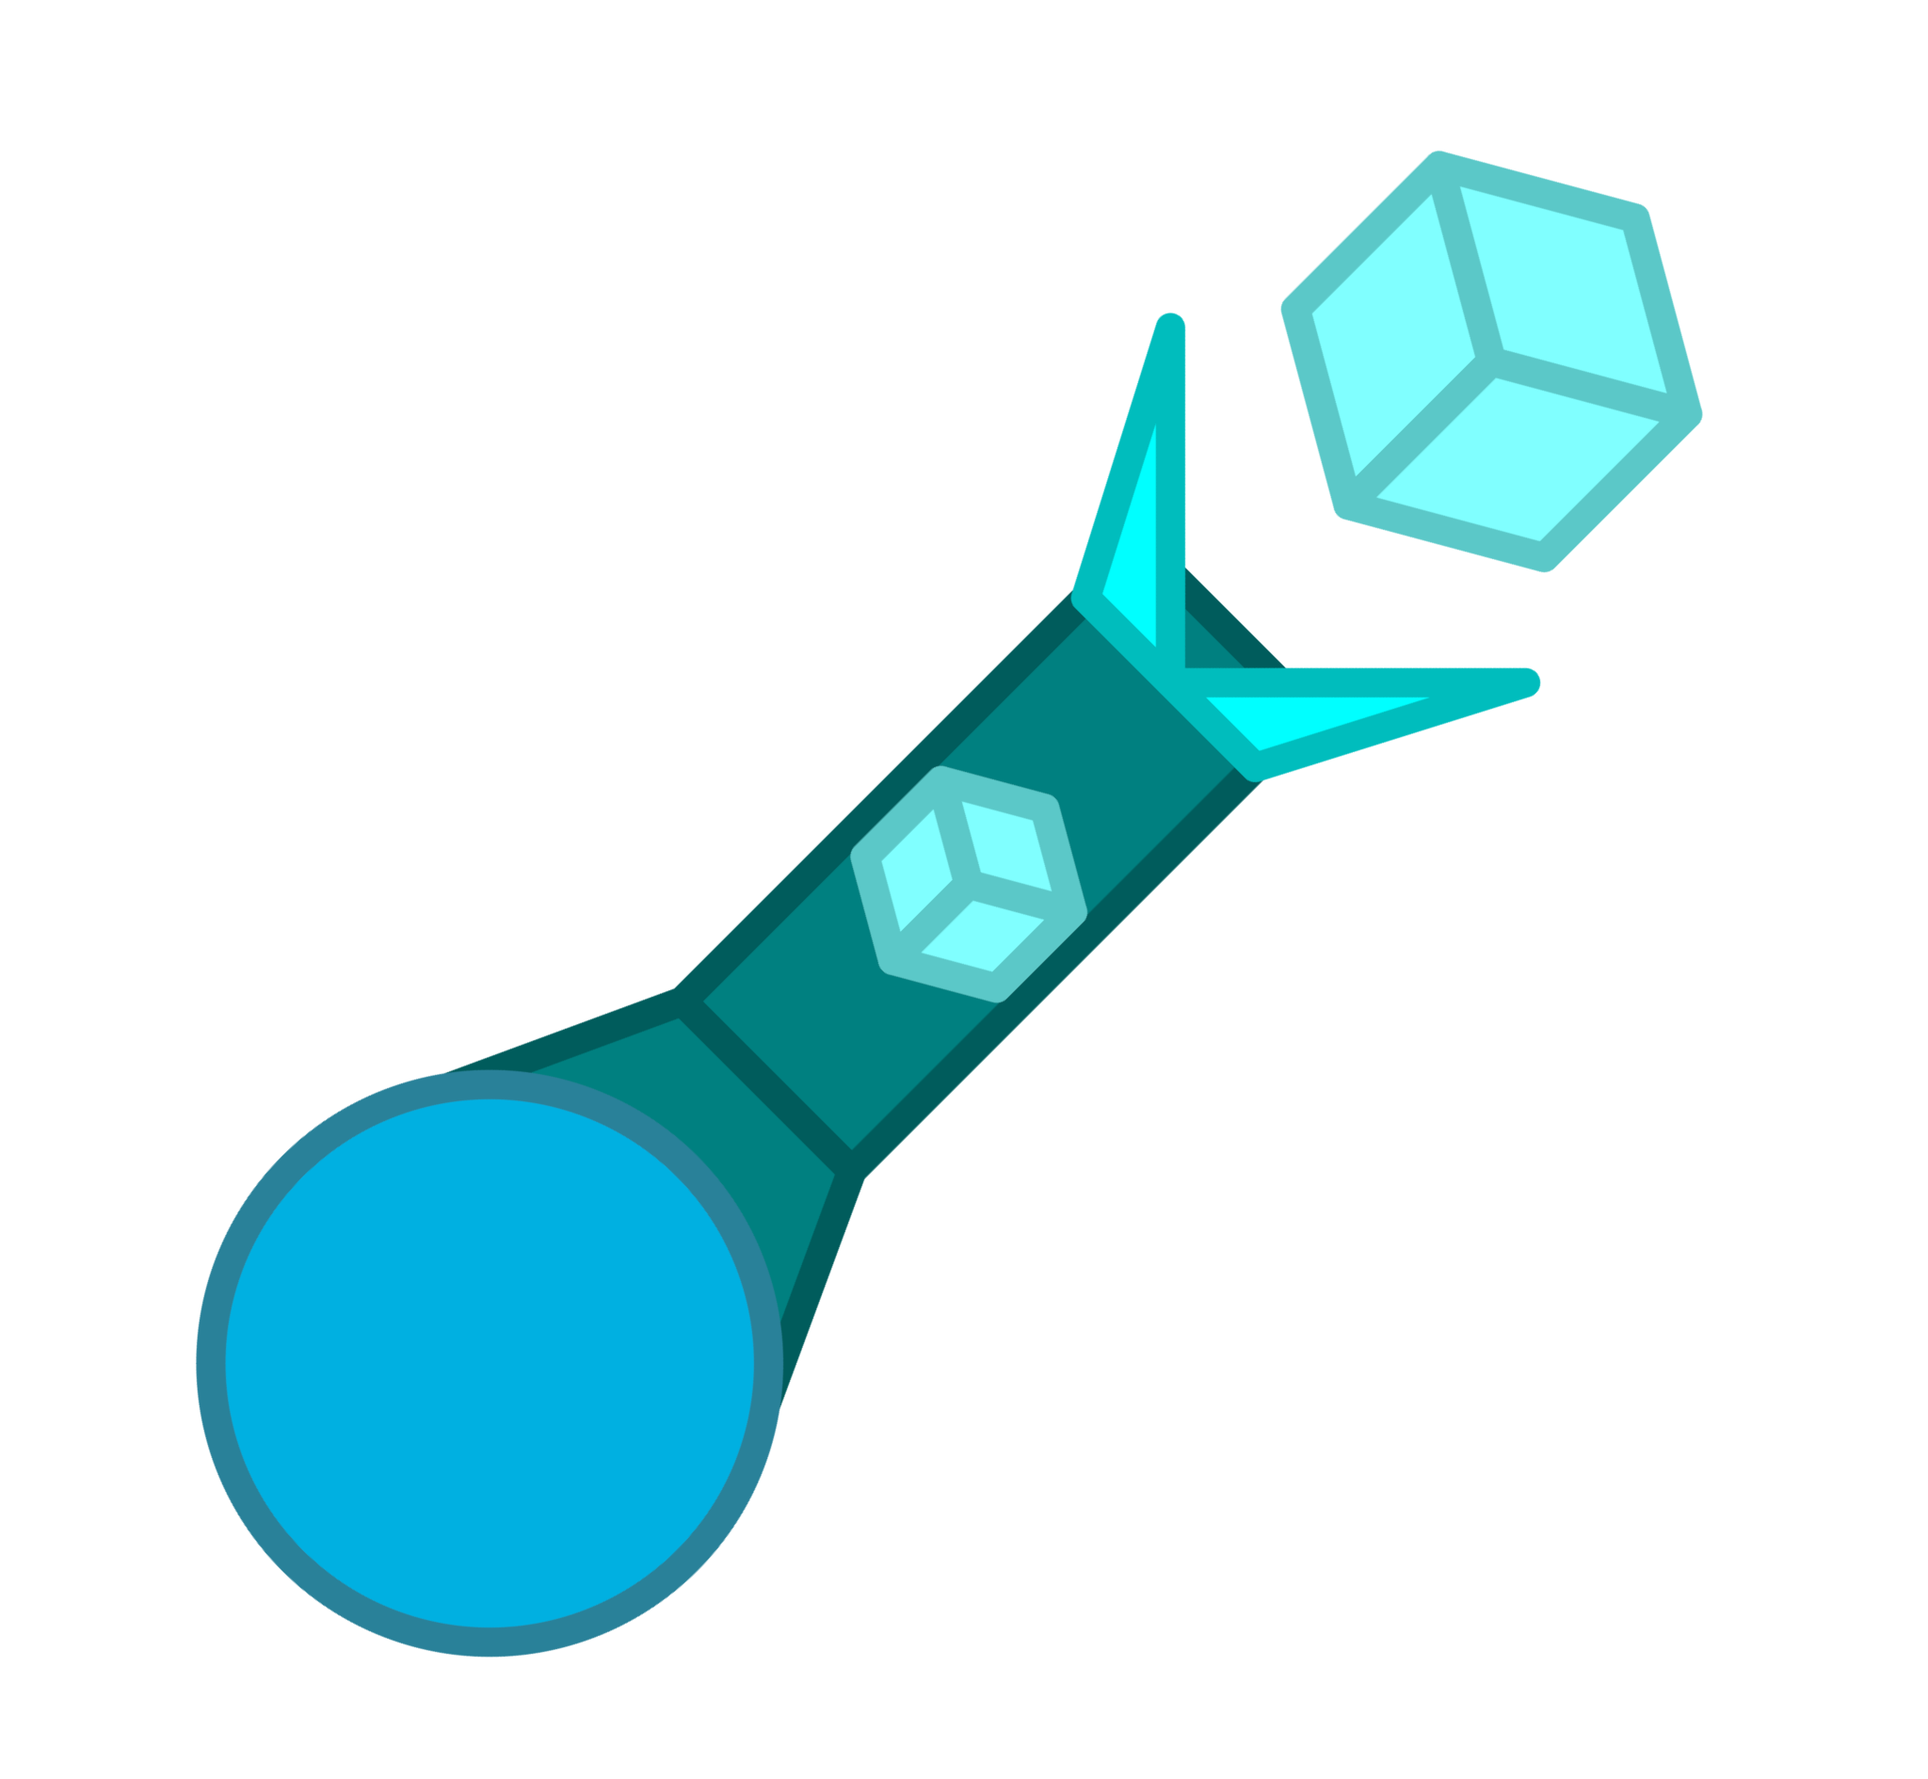
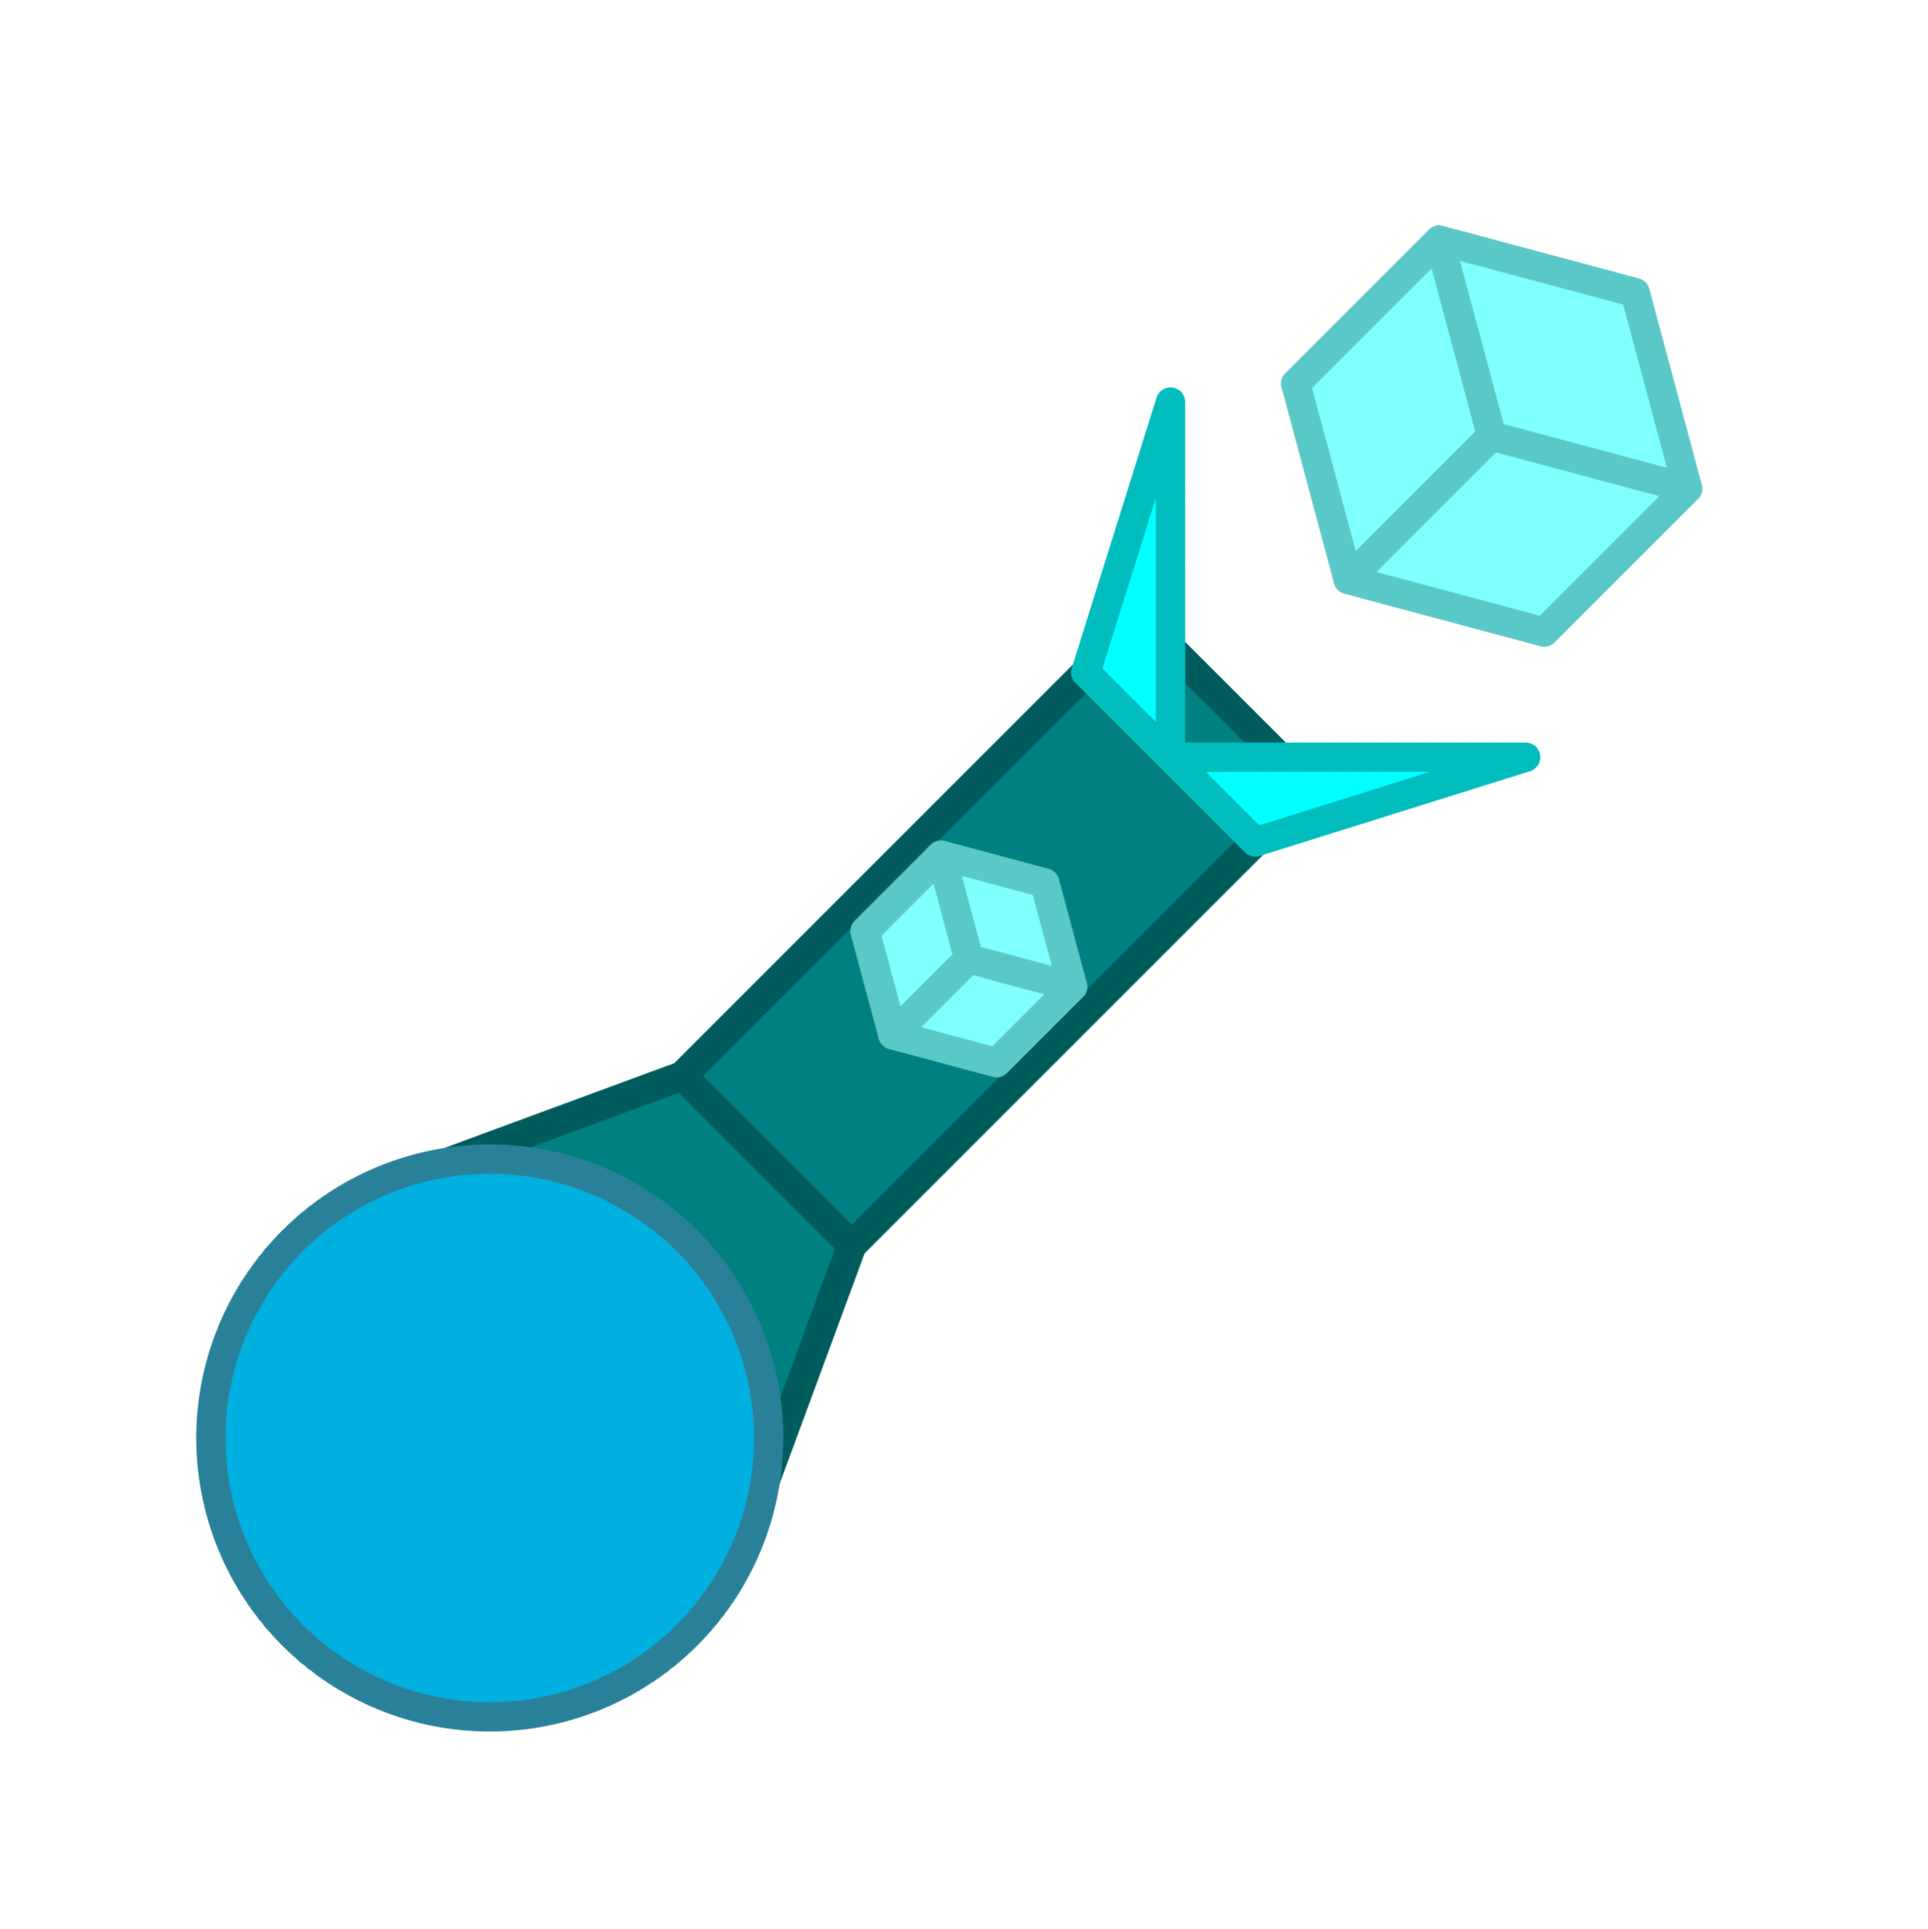
"I'M A PYROMANCER" "I'M A CRYOMANCER" How about you get some witches?

diff --git a/arras/tanks/cryomancer.html b/arras/tanks/cryomancer.html
@@ -1,0 +1,46 @@
+<!DOCTYPE html>
+<html>
+    <head>
+        <title>Cryomancer</title>
+        <link rel="stylesheet" type="text/css" href="../../index.css">
+        <link rel="stylesheet" type="text/css" href="../tankPage.css">
+        <link rel="stylesheet" type="text/css" href="../arrasPage.css">
+        <link rel="icon" type="image/x-icon" href="../../icon.svg">
+    </head>
+    <body>
+        <h1>Cryomancer</h1>
+            <section class="description">
+                <section class="descriptionText">
+                    <p><i>This page has redlinks (links that lead nowhere). This is not an error, as I'm prioritzing porting my main tank sheet over mechanics.</i></p>
+                    <p>The <b>Cryomancer</b> that can wield <a href="../mechanics/magic/ice.html" class="redlink">ice magic</a>. It upgrades from Mage at level 45.</p>
+                    <h2>Design</h2>
+                    <section class="design noBorder">
+                        <p>It has a team-colored circular body, a <span class="darkCyan">dark cyan</span> <a href="https://woomyarrasio.fandom.com/wiki/Warden">Warden</a> Barrel serving as the staff's rod, a <span class="cyan">cyan</span> <span class="ice">ice crystal</span> as the rod's decoration. On the end, it has <span class="lice">ice crystals</span> for decoration and a <span class="ice">ice crystal</span> for a wand core, which hovers beyond the tip of the rod.</p>
+                    </section>
+                    <h2>Technical</h2>
+                    <section class="technical noBorder">
+                        <p>The Cryomancer can summon a non-homing ice bolt that has Basic stats and inflicts 3 seconds of <span class="chiller">freezing</span> on right-click, at the cost of 40 mana per click.</p>
+                        <p>The Cryomancer can also shoot a firestorm in a 60º cone with radius equivalent to a basic FoV, that inflicts <span class="chiller">freezing</span> for 5 seconds on left-click, at the cost of 40 mana per second the left mouse button is held.</p>
+                        <p>The Cryomancer has a buffer of 120 ice mana, and regenerates 1 mana per minute per 10 degrees Kelvin of <a href="../mechanics/environment/temperature.html" class="redlink">temperature</a> below 0 degrees Celsius. The lower the temperature the more mana the Cryomancer gains.</p>
+                    </section>
+                    <section class="topBorderOnly navigation">
+                        <a href="../../index.html">Back to main page</a>
+                        <a href="../tanks.html">Back to tank index</a>
+                        <a href="../arras.html">Back to Arras index</a>
+                    </section>
+                </section> 
+                <section class="infobox">
+                    <img src="../assets/Cryomancer.png">
+                    <p class="tier tier4">Tier 4 Tank</p>
+                    <p>Upgrades from Mage</p>
+                    <p class="beforeWeaponInfo">Weapons:</p>
+                    <ul class="weaponInfo">
+                        <li class="rock">1 Staff of Fire</li>
+                    </ul>
+                    <p>Inherits base body stats from Basic</p>
+                    <p class="bottom">A fire wizard tank.</p>
+                    </section>
+                </section> 
+            </section>
+    </body>
+</html>

diff --git a/arras/tanks/pyromancer.html b/arras/tanks/pyromancer.html
@@ -1,0 +1,46 @@
+<!DOCTYPE html>
+<html>
+    <head>
+        <title>Pyromancer</title>
+        <link rel="stylesheet" type="text/css" href="../../index.css">
+        <link rel="stylesheet" type="text/css" href="../tankPage.css">
+        <link rel="stylesheet" type="text/css" href="../arrasPage.css">
+        <link rel="icon" type="image/x-icon" href="../../icon.svg">
+    </head>
+    <body>
+        <h1>Pyromancer</h1>
+            <section class="description">
+                <section class="descriptionText">
+                    <p><i>This page has redlinks (links that lead nowhere). This is not an error, as I'm prioritzing porting my main tank sheet over mechanics.</i></p>
+                    <p>The <b>Pyromancer</b> that can wield <a href="../mechanics/magic/fire.html" class="redlink">fire magic</a>. It upgrades from Mage at level 45.</p>
+                    <h2>Design</h2>
+                    <section class="design noBorder">
+                        <p>It has a team-colored circular body, a <span class="darkRed">dark red</span> <a href="https://woomyarrasio.fandom.com/wiki/Warden">Warden</a> Barrel serving as the staff's rod, an <span class="orange">orange</span> <span class="lava">lava crystal</span> as the rod's decoration. On the end, it has <span class="lava">lava crystals</span> for decoration and a <span class="lava">lava crystal</span> for a wand core, which hovers beyond the tip of the rod.</p>
+                    </section>
+                    <h2>Technical</h2>
+                    <section class="technical noBorder">
+                        <p>The Pyromancer can summon a non-homing fireball that has Pounder stats and inflicts 3 seconds of <span class="torch">torch</span> on right-click, at the cost of 40 mana per click.</p>
+                        <p>The Pyromancer can also shoot a firestorm in a 60º cone with radius equivalent to a basic FoV, that inflicts <span class="torch">torch</span> for 5 seconds on left-click, at the cost of 40 mana per second the left mouse button is held.</p>
+                        <p>The Pyromancer has a buffer of 120 fire mana, and regenerates 1 mana per minute per 10 degrees Kelvin of <a href="../mechanics/environment/temperature.html" class="redlink">temperature</a>.</p>
+                    </section>
+                    <section class="topBorderOnly navigation">
+                        <a href="../../index.html">Back to main page</a>
+                        <a href="../tanks.html">Back to tank index</a>
+                        <a href="../arras.html">Back to Arras index</a>
+                    </section>
+                </section> 
+                <section class="infobox">
+                    <img src="../assets/Pyromancer.png">
+                    <p class="tier tier4">Tier 4 Tank</p>
+                    <p>Upgrades from Mage</p>
+                    <p class="beforeWeaponInfo">Weapons:</p>
+                    <ul class="weaponInfo">
+                        <li class="rock">1 Staff of Fire</li>
+                    </ul>
+                    <p>Inherits base body stats from Basic</p>
+                    <p class="bottom">A fire wizard tank.</p>
+                    </section>
+                </section> 
+            </section>
+    </body>
+</html>

diff --git a/arras/tankPage.css b/arras/tankPage.css
@@ -197,12 +197,26 @@ section.infobox .bottom{
     color: #333333;
     background-color: #ffffff80;
 }
-.purple{
-    color: #9933ff;
+.darkRed{
+    color: #660000;
+    background-color: #ffffff80;
+}
+.darkCyan{
+    color: #006666;
+    background-color: #ffffff80;
 }
 .darkPurple{
     color: #6600cc;
     background-color: #ffffff80;
+}
+.orange{
+    color: #ff8000;
+}
+.cyan{
+    color: #00ffff;
+}
+.purple{
+    color: #9933ff;
 }
 .soil{
     color: #9b7653;
@@ -216,6 +230,10 @@ section.infobox .bottom{
     color: #9933ff;
     font-weight: bold;
 }
+.torch{
+    color: #ff9900;
+    font-weight: bold;
+}
 .fragWeaken{
     color: #008080;
     font-weight: bold;
@@ -225,4 +243,20 @@ section.infobox .bottom{
     color: #000000;
     font-weight: bold;
     background-color: #ffffff80;
+}
+.chiller{
+    color: #99ffff;
+    font-weight: bold;
+}
+.lava{
+    background-image: linear-gradient(to right, #ff6600 0%,#ffcc00 20%,#ffcc00 30%,#ff6600 40%,#ff9900 50%,#ff9900 60%,#ff6600 70%,#ff9900 80%,#ff9900 90%,#ff6600 100%);
+    color: transparent;
+    background-clip: text;
+    font-weight: bold;
+}
+.ice{
+    background-image: linear-gradient(to right, #0066ff 0%,#00ccff 20%,#00ccff 30%,#0066ff 40%,#0099ff 50%,#0099ff 60%,#0066ff 70%,#0099ff 80%,#0099ff 90%,#0066ff 100%);
+    color: transparent;
+    background-clip: text;
+    font-weight: bold;
 }

diff --git a/arras/tanks/vein_hammer.html b/arras/tanks/vein_hammer.html
@@ -11,7 +11,7 @@
         <h1>Vein Hammer</h1>
             <section class="description">
                 <section class="descriptionText">
-                    <p>The <b>Vein Hammer</b> is a more efficient version of Smaragdus' <a href="https://startrails.world/Trail/Tank/Brander">Brander</a> that can mine rocks to get <span class="rock">rock</span> and resources. It upgrades from Brander and <a href="./pickaxe>.html">Pickaxe</a> at level 30.</p>
+                    <p>The <b>Vein Hammer</b> is a more efficient version of Smaragdus' <a href="https://startrails.world/Trail/Tank/Brander">Brander</a> that can mine rocks to get <span class="rock">rock</span> and resources. It upgrades from Brander and <a href="./pickaxe>.html">Pickaxe</a> at level 45.</p>
                     <h2>Design</h2>
                     <section class="design noBorder">
                         <p>It has a team-colored circular body with a wide but thin <span class="gray">gray</span> handle and a <span class="gray">gray</span> vein-mining hammer head.</p>

diff --git a/arras/tanks/rossio.html b/arras/tanks/rossio.html
@@ -11,7 +11,7 @@
         <h1>Rossio</h1>
             <section class="description">
                 <section class="descriptionText">
-                    <p>The <b>Rossio</b> is a stronger version of Smaragdus' <a href="https://startrails.world/Trail/Tank/Brander">Brander</a> that can mine rocks to get <span class="rock">rock</span> and resources. It upgrades from Brander and <a href="./pickaxe>.html">Pickaxe</a> at level 30.</p>
+                    <p>The <b>Rossio</b> is a stronger version of Smaragdus' <a href="https://startrails.world/Trail/Tank/Brander">Brander</a> that can mine rocks to get <span class="rock">rock</span> and resources. It upgrades from Brander and <a href="./pickaxe>.html">Pickaxe</a> at level 45.</p>
                     <h2>Design</h2>
                     <section class="design noBorder">
                         <p>It has a team-colored circular body with a wide but thin <span class="gray">gray</span> handle and a <span class="gray">gray</span> mining hammer head.</p>

diff --git a/arras/tanks.html b/arras/tanks.html
@@ -38,6 +38,8 @@
             <p><a href="./tanks/axeman.html">Axeman</a></p>
             <p><a href="./tanks/rossio.html">Rossio</a></p>
             <p><a href="./tanks/vein_hammer.html">Vein Hammer</a></p>
+            <p><a href="./tanks/pyromancer.html">Pyromancer</a></p>
+            <p><a href="./tanks/cryomancer.html">Cryomancer</a></p>
             <p>WIP</p>
             <a href="../arras.html">Back to Arras index</a>
             <a href="../../index.html">Back to main page</a>
